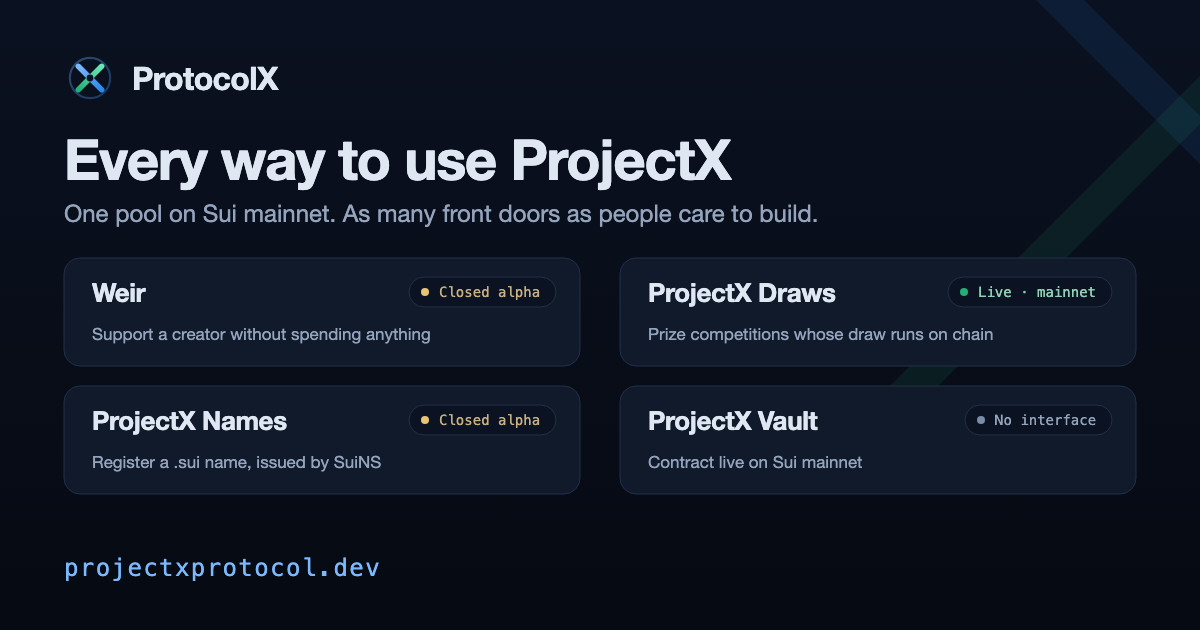
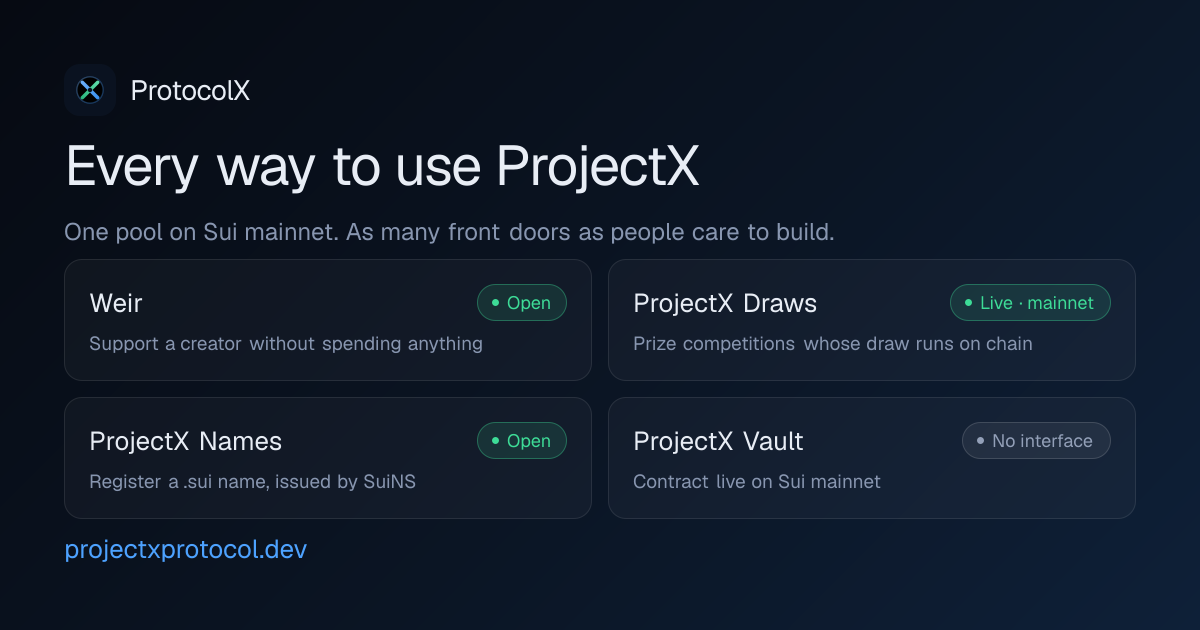
Regenerate the two OG cards still showing Weir as closed alpha
public/og/interfaces.png and public/og/social.png baked "Closed alpha"
into their pixels since 30 August 2026; the text fix in 8b9105d
corrected every surrounding claim but left these two alt texts matching
the (stale) pixels rather than describing images that didn't exist.

Their master source was never in this repo — the prior commits that
shipped them point at operations/brand-pack/, which is gitignored and
absent on this machine — so there was nothing to open and re-export.
Wrote scripts/gen-static-og.mjs instead: it renders both cards with
the same next/og (Satori) pipeline app/opengraph-image.tsx already
uses, the site's own logo mark and colour tokens, and "Open" chips for
Weir and Names. Kept them as static files rather than converting to
per-request routes — a smaller, more literal fix, and the tradeoff
between the two is flagged in the script's header comment for whoever
revisits it.

Verified both renders against the terminal (checkmarks/text drawn
correctly, no font-fetch fallback glyphs), then ran the full local
gate: typecheck, 6/6 tests, guardrails, and all 6 verify scripts
including verify-claims.mjs and verify-contrast.mjs — clean.

diff --git a/app/interfaces/page.tsx b/app/interfaces/page.tsx
@@ -33,10 +33,10 @@ export const metadata: Metadata = {
   // reader acts on. This asset is static, so a chip that overstates OR understates a product's
   // availability cannot be corrected by a later render.
   //
-  // The alt text below still reads "closed alpha" because the PNG's own baked-in pixels do — it
-  // was rendered 30 August 2026, before the door opened, and describing pixels that no longer
-  // exist is worse than describing the ones that do. Regenerate /public/og/interfaces.png (and
-  // /public/og/social.png, same fact) with "Open" chips, then fix this string to match.
+  // Regenerated 8 September 2026 by scripts/gen-static-og.mjs — the same next/og (Satori) renderer
+  // app/opengraph-image.tsx already uses, run once and saved as a static file rather than wired up
+  // as a per-request route (see that script's own header comment for why this pair stayed static).
+  // Re-run it and update the alt text below whenever a chip on this page changes again.
   //
   // The token launcher is absent for the same reason it is absent from the page: its panel
   // renders only when LAUNCHER_URL is set, and that variable is fail-closed until a subdomain
@@ -47,7 +47,7 @@ export const metadata: Metadata = {
         url: '/og/interfaces.png',
         width: 1200,
         height: 630,
-        alt: 'Every way to use ProjectX — Weir (closed alpha), ProjectX Draws (live on mainnet), ProjectX Names (closed alpha), ProjectX Vault (contract live, no interface)',
+        alt: 'Every way to use ProjectX — Weir (open), ProjectX Draws (live on mainnet), ProjectX Names (open), ProjectX Vault (contract live, no interface)',
       },
     ],
   },

diff --git a/app/social/page.tsx b/app/social/page.tsx
@@ -55,9 +55,9 @@ export const metadata: Metadata = {
   // below is honest only because it is qualified, and a card cannot carry the qualification.
   //
   // Was "Weir · Sui mainnet · closed alpha" until weir.social/join was verified, 8 September
-  // 2026, serving registration directly — no invitation code, no waiting-list redirect. The
-  // static card at /og/social.png still shows the old chips (rendered 30 August 2026) and needs
-  // regenerating; the alt text below is left matching the actual pixels until it is.
+  // 2026, serving registration directly — no invitation code, no waiting-list redirect. Card
+  // regenerated the same day by scripts/gen-static-og.mjs, which now reads "Weir · Sui mainnet ·
+  // open"; re-run that script if this status changes again.
   //
   // No sentence here may offer supporters a share of the yield. Weir's Creator Terms §3.3 forbid
   // implying a supporter gains financially.
